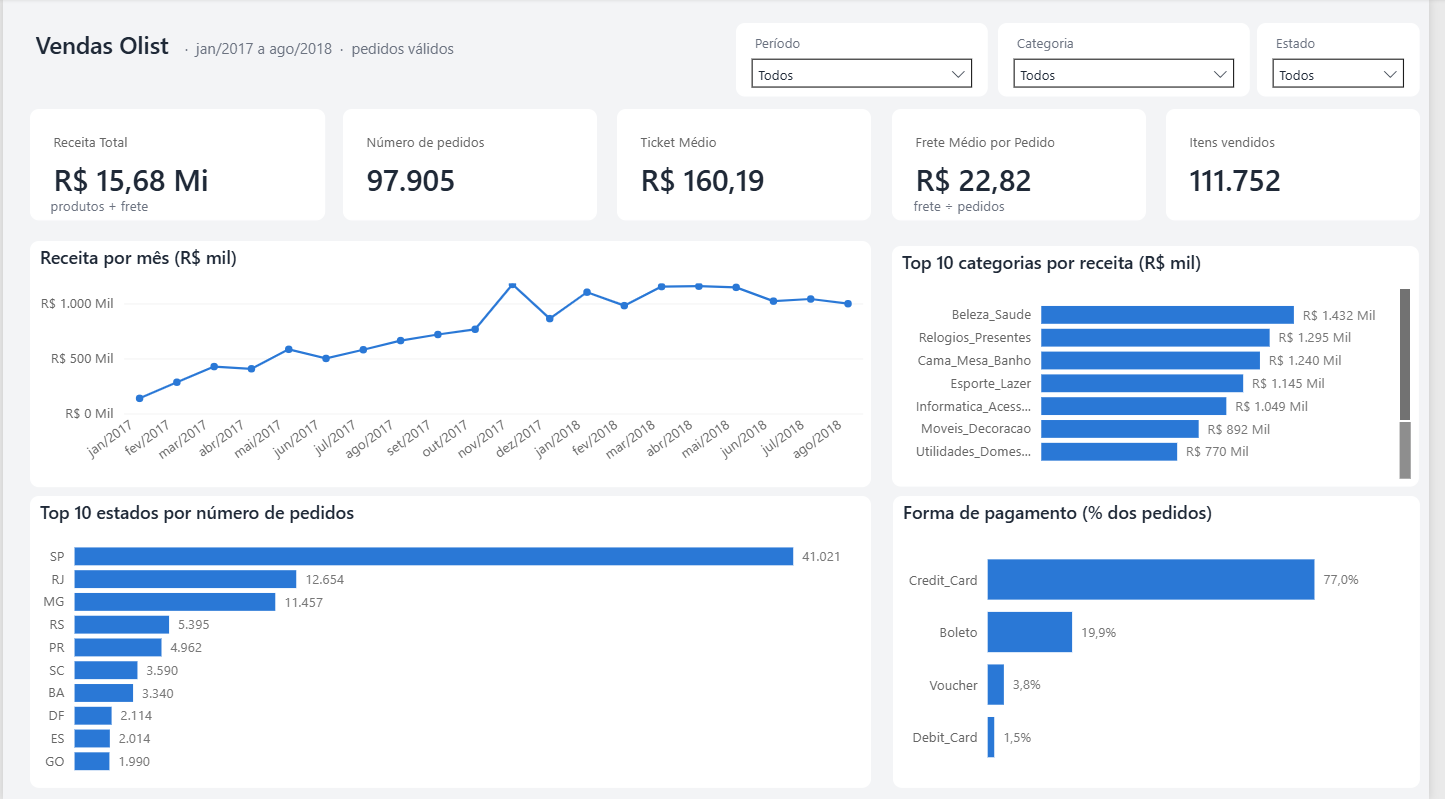
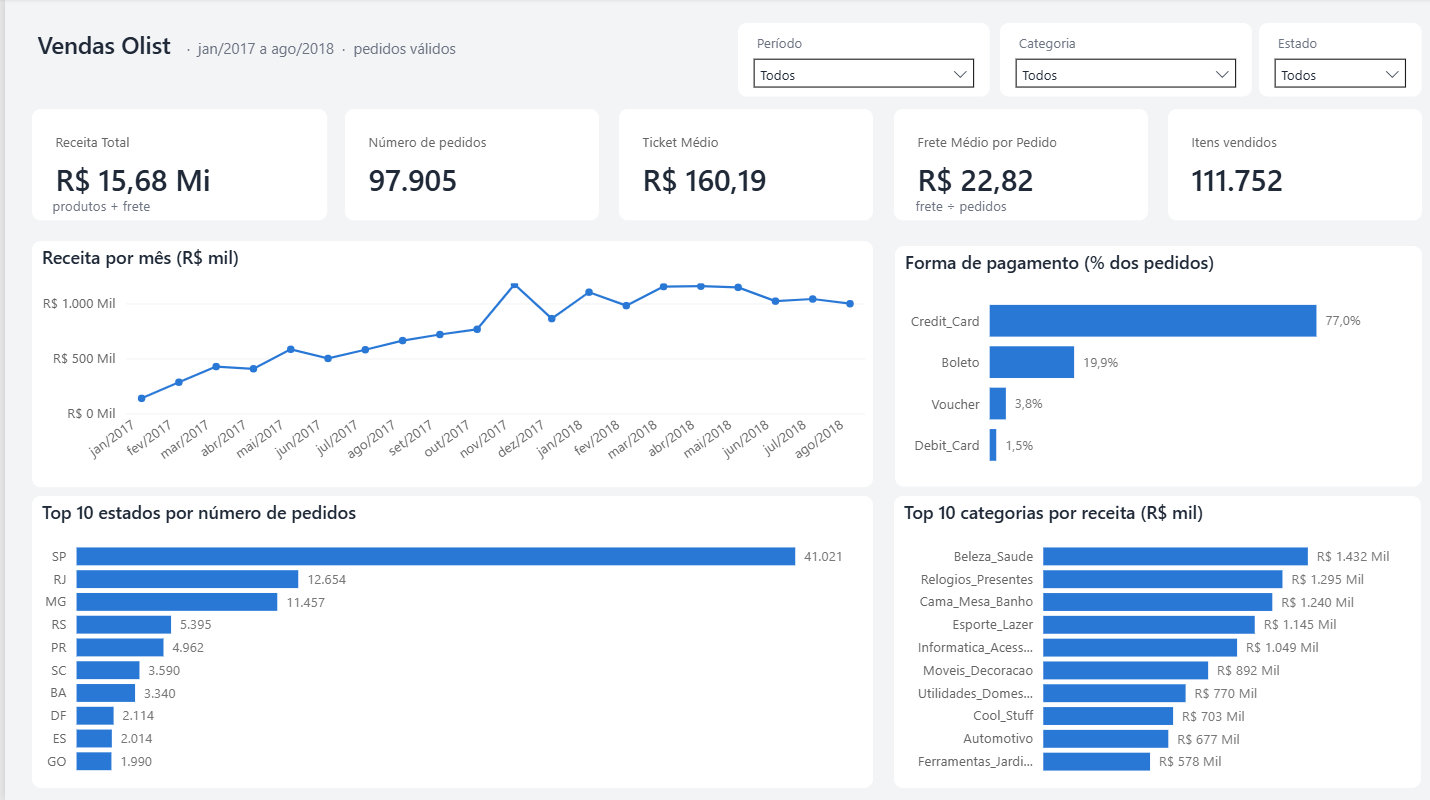
docs: update dashboard screenshots and align design doc and QA sign-off with final layout

diff --git a/docs/dashboard_design.md b/docs/dashboard_design.md
@@ -111,6 +111,7 @@ Para aplicar a paleta, salve o bloco abaixo como `.json` e importe em *Exibiçã
 - Grade bem clara e sem linhas de eixo desnecessárias.
 - Título do gráfico diz **o que ele mostra** e a unidade (ex.: "Receita por mês (R$)").
 - Barras partem sempre do zero.
+- **Gráfico de barras com 10 categorias precisa de cerca de 250 px de altura**, porque o Power BI reserva no mínimo 20 px por barra. Com menos altura aparece uma barra de rolagem. Por isso, no painel final, os gráficos Top 10 de categorias (aba Vendas) e de estados por atraso (aba Entrega e Clientes) ficam na linha de baixo, que é mais alta, e os gráficos de poucas barras (forma de pagamento e nota média) ficam na linha de cima.
 
 ---
 
@@ -122,23 +123,24 @@ Para aplicar a paleta, salve o bloco abaixo como `.json` e importe em *Exibiçã
 ┌──────────────────────────────────────────────────────────────────┐
 │ Vendas Olist · jan/2017 a ago/2018    [Período] [Estado] [Categoria]│
 ├───────────┬───────────┬───────────┬───────────┬──────────────────┤
-│ Receita   │ Pedidos   │ Ticket    │ Frete     │ Itens · Categoria│
-│ Total ▲%  │           │ Médio     │ Médio     │ líder · Pagamento│
+│ Receita   │ Pedidos   │ Ticket    │ Frete     │ Itens vendidos   │
+│ Total     │           │ Médio     │ Médio     │                  │
 ├───────────┴───────────┴───────────┴───┬───────┴──────────────────┤
-│  Receita por mês (linha)              │ Top 10 categorias        │
-│                                       │ por receita (barras)     │
+│  Receita por mês (linha)              │ Forma de pagamento       │
+│                                       │ (barras)                 │
 ├───────────────────────────────────────┼──────────────────────────┤
-│  Top 10 estados por pedidos (barras)  │ Forma de pagamento       │
+│  Top 10 estados por pedidos (barras)  │ Top 10 categorias        │
+│                                       │ por receita (barras)     │
 └───────────────────────────────────────┴──────────────────────────┘
 ```
 
 | Visual | Gráfico | Campos | Motivo da escolha |
 |---|---|---|---|
-| **Receita Total** | Cartão com seta de variação vs. mês anterior | Receita Total | É o número principal: maior e no canto superior esquerdo, onde o olho começa |
-| **Pedidos, Ticket Médio, Frete Médio** | Cartões menores | Respectivas medidas | Número direto, sem necessidade de gráfico |
-| **Itens vendidos, Categoria líder, Pagamento mais usado** | Cartões de texto pequenos em uma faixa | Respectivas medidas | São KPIs de texto ou contagem simples |
-| **Receita por mês** | Linha, com o pico rotulado | Mês × Receita Total | Mostra tendência e sazonalidade. Pedidos e ticket médio ficam no tooltip, **sem eixo duplo**, que sugere correlação onde não há |
-| **Top 10 categorias** | Barras horizontais, uma cor, valores nas barras | Categoria (em inglês) × Receita Total | Nomes longos cabem melhor em barra horizontal, e a ordenação mostra o ranking |
+| **Receita Total** | Cartão grande, com legenda curta abaixo do valor | Receita Total | É o número principal: maior e no canto superior esquerdo, onde o olho começa |
+| **Pedidos, Ticket Médio, Frete Médio** | Cartões | Respectivas medidas | Número direto, sem necessidade de gráfico |
+| **Itens vendidos** | Cartão | Produtos Vendidos | Contagem simples. A categoria líder e a forma de pagamento mais usada aparecem nos gráficos de barras (as medidas continuam no modelo) |
+| **Receita por mês** | Linha, com marcadores nos pontos | Mês × Receita Total | Mostra tendência e sazonalidade. Pedidos e ticket médio ficam no tooltip, **sem eixo duplo**, que sugere correlação onde não há |
+| **Top 10 categorias** | Barras horizontais, uma cor, valores nas barras | Categoria (tradução em inglês) × Receita Total | Nomes longos cabem melhor em barra horizontal, e a ordenação mostra o ranking |
 | **Top 10 estados** | Barras horizontais | Estado do cliente × Número de Pedidos | Ranking mais preciso que mapa; um estado (SP) concentra cerca de 40% dos pedidos |
 | **Forma de pagamento** | Barras horizontais, em % dos pedidos | Tipo de pagamento × % dos pedidos | Uma forma domina (cartão de crédito, cerca de 77%), e em barras isso aparece melhor do que em rosca |
 
@@ -155,17 +157,20 @@ Para aplicar a paleta, salve o bloco abaixo como `.json` e importe em *Exibiçã
 │ Tempo médio│ % Pedidos  │ Avaliação  │ Clientes   │ Clientes     │
 │ de entrega │ atrasados  │ média      │ únicos     │ recorrentes %│
 ├────────────┴────────────┴────────────┼────────────┴──────────────┤
-│ % atrasados por mês (linha)          │ Top 10 estados por        │
-│                                      │ % de atraso (barras)      │
+│ % atrasados por mês (linha)          │ Nota média: no prazo x    │
+│                                      │ atrasado (barras)         │
 ├──────────────────────────────────────┼───────────────────────────┤
-│ Nota média: no prazo x atrasado      │ Distribuição das notas 1–5│
+│ Distribuição das notas 1–5 (colunas) │ Top 10 estados por        │
+│                                      │ % de atraso (barras)      │
 └──────────────────────────────────────┴───────────────────────────┘
+
+> Os gráficos de 10 barras ficam na linha de baixo, que é mais alta: o Power BI usa no mínimo 20 px por barra e, na linha de cima, apareceria uma barra de rolagem.
 ```
 
 | Visual | Gráfico | Campos | Motivo da escolha |
 |---|---|---|---|
 | **5 cartões** | Cartão (o de atrasos com seta ou ícone de status) | Tempo Médio de Entrega, % Pedidos Atrasados, Avaliação Média, Clientes Únicos, Clientes Recorrentes % | Cada um responde uma pergunta de negócio sem esforço |
-| **% atrasados por mês** | Linha, com linha de referência na média | Mês × % atrasados | Mostra *quando* a operação quebrou. Os picos ficam em vermelho |
+| **% atrasados por mês** | Linha, com marcadores nos pontos | Mês × % atrasados | Mostra *quando* a operação quebrou (o pior mês foi março/2018, com 19,0%) |
 | **Top 10 estados por atraso** | Barras horizontais | Estado × % atrasados | Mostra *onde* agir (concentrado no Nordeste). **Filtrar por volume mínimo** (ex.: 100 pedidos entregues) para não destacar estado com poucos pedidos |
 | **Nota média: no prazo x atrasado** | Barras com 2 categorias e valores nas barras | Situação da entrega × Avaliação Média | É a mensagem mais forte da página: pedidos atrasados têm nota média por volta de 2,3 contra cerca de 4,3 no prazo |
 | **Distribuição das notas** | Colunas de 1 a 5 | Nota × % das avaliações | Mostra a forma da satisfação (a nota 5 domina) |

diff --git a/docs/qa_signoff.md b/docs/qa_signoff.md
@@ -40,7 +40,7 @@ Todos os valores visíveis no dashboard (38) foram recalculados em SQL (SQLite),
 | 3. Transformações e cálculos | **PASS** | Joins sem duplicar linhas (verificado), receita sem duplicação, divisões seguras com `DIVIDE`, denominadores corretos (veja o item 1) |
 | 4. Validade estatística | **PASS** | Sem testes inferenciais. Ranking de estados exige 100 entregas. Associação entre atraso e nota não é tratada como causa |
 | 5. Achados e conclusões | **PASS** | Limitações escritas no README |
-| 6. Apresentação | **PASS** | Títulos, formatos e legendas consistentes. Os gráficos Top 10 precisam de uma conferência visual (item 3) |
+| 6. Apresentação | **PASS** | Títulos, formatos e legendas consistentes. Capturas do README conferidas com os números (item 3) |
 
 ## Problemas encontrados
 
@@ -48,7 +48,7 @@ Todos os valores visíveis no dashboard (38) foram recalculados em SQL (SQLite),
 |---|---|---|---|---|
 | 1 | **MUST FIX** | % de pedidos atrasados 6,67% e nota "No prazo" 4,25: pedidos ainda não entregues eram classificados como "No prazo" | Coluna `situacao_entrega` passou a depender de `dias_entrega`. Agora 6,79% e 4,29, iguais ao recálculo em SQL | Corrigido |
 | 2 | **MUST FIX** | Segmentações não sincronizavam entre as páginas | `syncGroup` regravado no lugar correto do arquivo | Corrigido |
-| 3 | SHOULD FIX | Gráficos Top 10 categorias e Top 10 estados por atraso mostravam 7 de 10 barras, com barra de rolagem | Largura mínima por categoria reduzida (20 para 12). **Confirmar na tela e refazer as capturas** | Corrigido no arquivo, a conferir |
+| 3 | SHOULD FIX | Gráficos Top 10 categorias e Top 10 estados por atraso mostravam 7 de 10 barras, com barra de rolagem | O Power BI não aceita menos de 20 px por categoria (o valor 12 foi ignorado), então 10 barras precisam de cerca de 250 px de altura. Os gráficos de 10 barras foram para a linha de baixo (262 px) e os de 2 e 4 barras para a de cima, sem mudar a grade. Confirmado nas novas capturas: 10 barras visíveis nos dois gráficos | Corrigido |
 | 4 | SHOULD FIX | README e `dashboard/README.md` desatualizados (diziam "não aberto no Desktop", "em construção") | Reescritos com o estado real | Corrigido |
 | 5 | SHOULD FIX | Regras de negócio dos KPIs só em `dashboard_design.md`; `kpis.md` só listava os nomes | Definições e valores de referência adicionados a `docs/kpis.md` | Corrigido |
 | 6 | SHOULD FIX | `LICENSE`, `CHANGELOG.md`, `ROADMAP.md` e `main.py` vazios | MIT; changelog e roadmap preenchidos; `main.py` removido | Corrigido |
@@ -69,6 +69,5 @@ Todos os valores visíveis no dashboard (38) foram recalculados em SQL (SQLite),
 **Ressalvas:**
 > - Os números são do período jan/2017 a ago/2018, com pedidos válidos (sem cancelados e indisponíveis). A recompra de apenas 3,03% e a nota menor nos pedidos atrasados descrevem os dados; não provam causa.
 > - O projeto Power BI usa o formato `.pbip` (arquivos de texto). Foi aberto e validado no Power BI Desktop.
-> - Os gráficos Top 10 foram ajustados nos arquivos: conferir na tela e atualizar as capturas do README antes de divulgar.
 
 **Revisor:** Lucas Feitosa  **Data:** 2026-10-09
